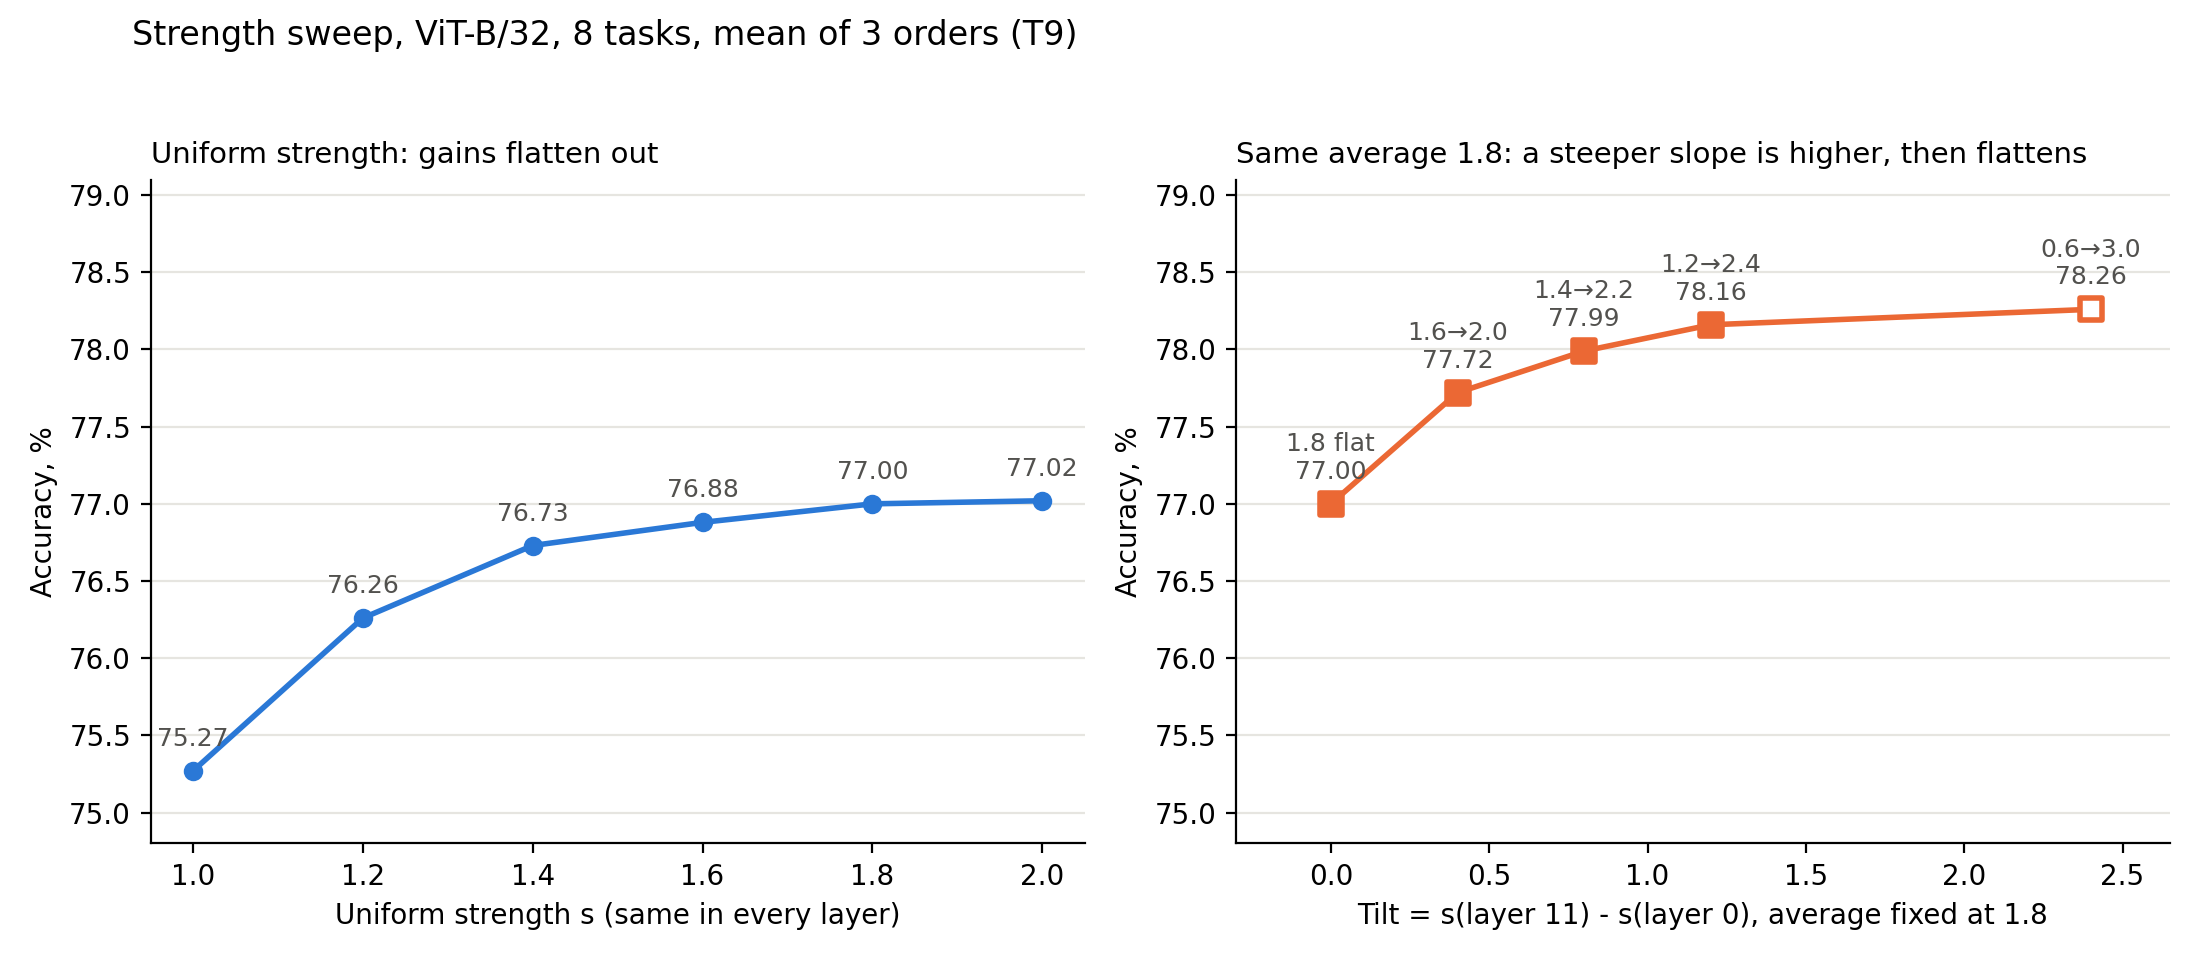
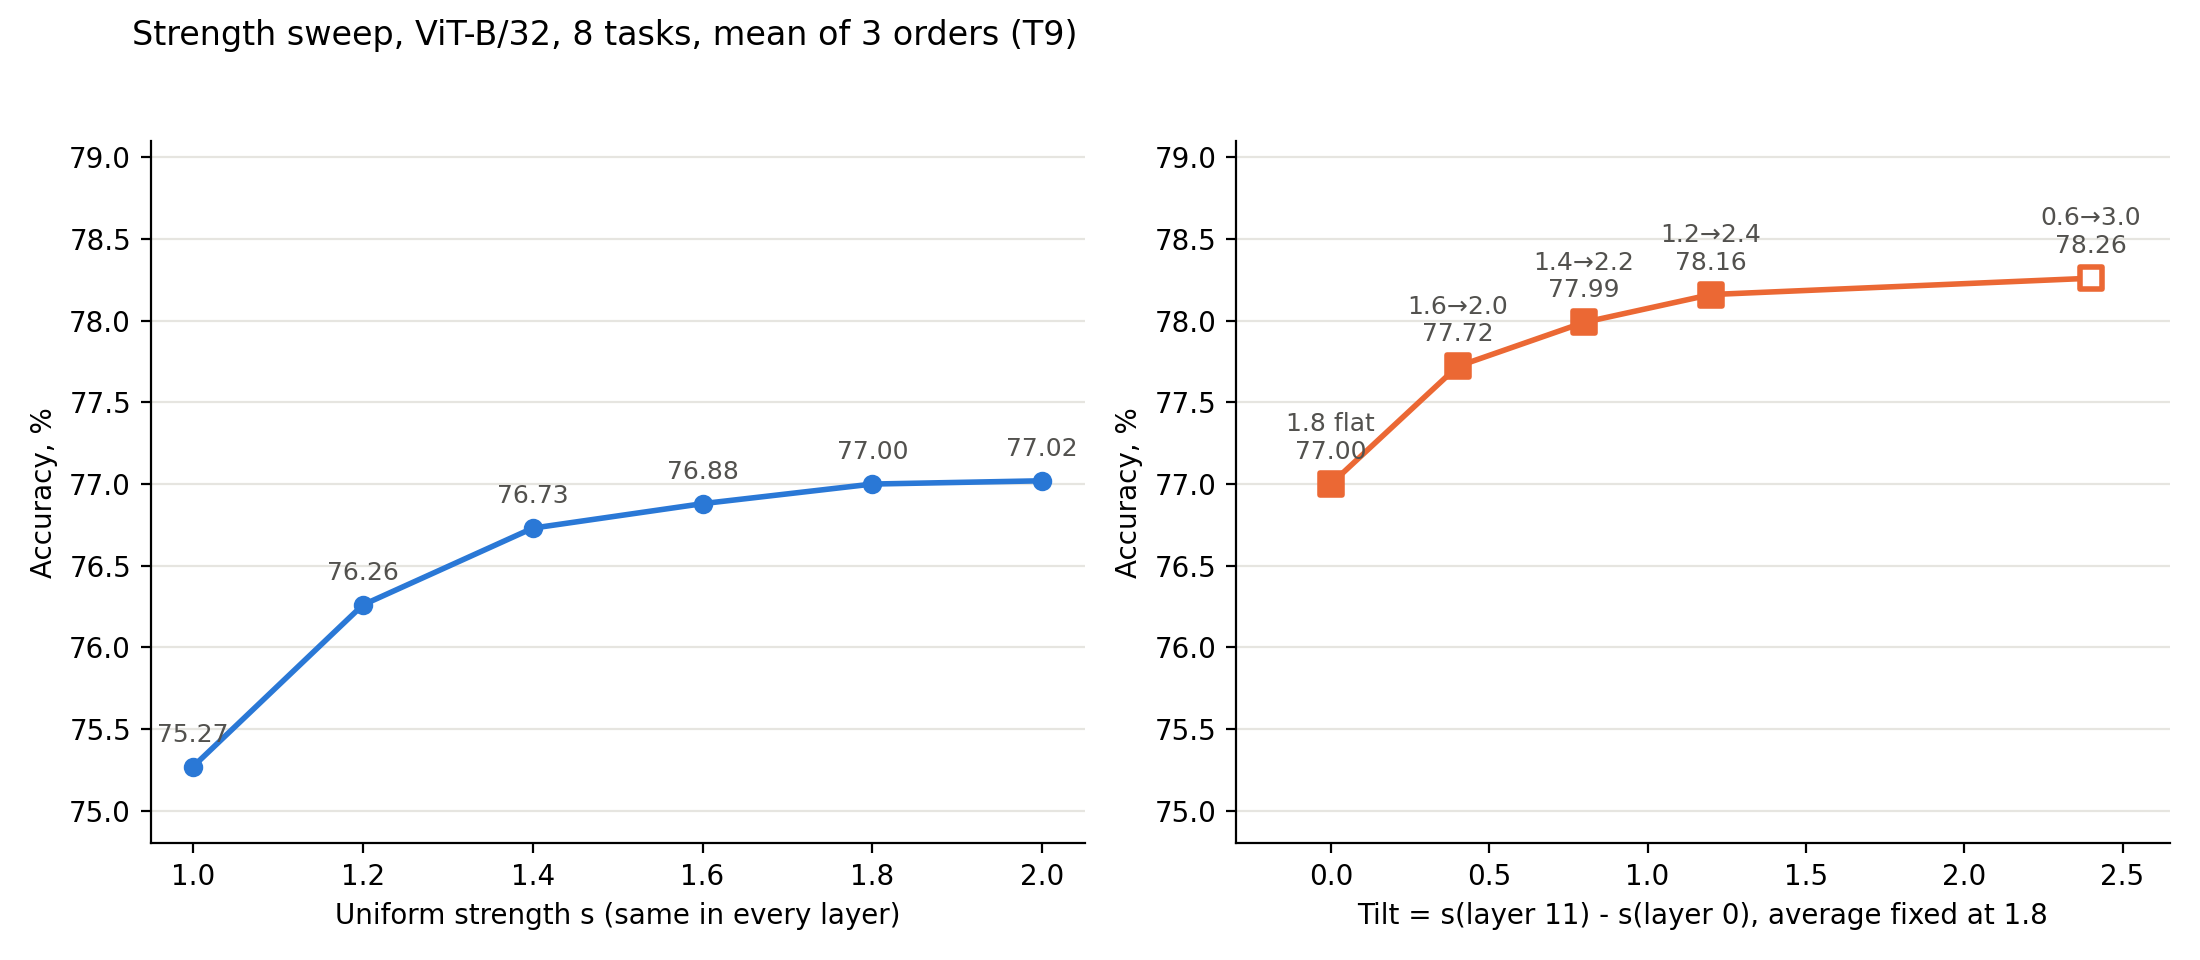
autosave 2026-11-18_15:16

diff --git a/plot_strength_from_table.py b/plot_strength_from_table.py
@@ -12,14 +12,12 @@ fig,(a,b)=plt.subplots(1,2,figsize=(11,4.8),dpi=200)
 a.plot([x for x,_ in U],[y for _,y in U],"-o",color=B,lw=2)
 for x,y in U: a.annotate(f"{y:.2f}",(x,y),xytext=(0,9),textcoords="offset points",ha="center",fontsize=9,color=K)
 a.set_xlabel("Uniform strength s (same in every layer)"); a.set_ylabel("Accuracy, %")
-a.set_title("Uniform strength: gains flatten out",loc="left",fontsize=10.5)
 u18=[y for x,y in U if x==1.8][0]; pts=[(0,u18,False,"1.8 flat")]+sorted([(t,y,s,l) for t,y,l,s in D])
 b.plot([p[0] for p in pts],[p[1] for p in pts],"-",color=O,lw=2)
 for x,y,s,l in pts:
     b.scatter([x],[y],marker="s",s=60,zorder=3,facecolor="white" if s else O,edgecolor=O,lw=2)
     b.annotate(f"{l}\n{y:.2f}",(x,y),xytext=(0,9),textcoords="offset points",ha="center",fontsize=9,color=K)
 b.set_xlim(-0.3,2.65); b.set_xlabel("Tilt = s(layer 11) - s(layer 0), average fixed at 1.8"); b.set_ylabel("Accuracy, %")
-b.set_title("Same average 1.8: a steeper slope is higher, then flattens",loc="left",fontsize=10.5)
 for ax in (a,b): ax.spines[["top","right"]].set_visible(False); ax.grid(axis="y",color="#e6e5e0"); ax.set_axisbelow(True); ax.set_ylim(74.8,79.1)
 fig.suptitle("Strength sweep, ViT-B/32, 8 tasks, mean of 3 orders (T9)",x=0.06,ha="left",fontsize=12)
 fig.tight_layout(rect=(0,0,1,0.95)); fig.savefig("results/paper/figs/F12_strength_sweep.png")
